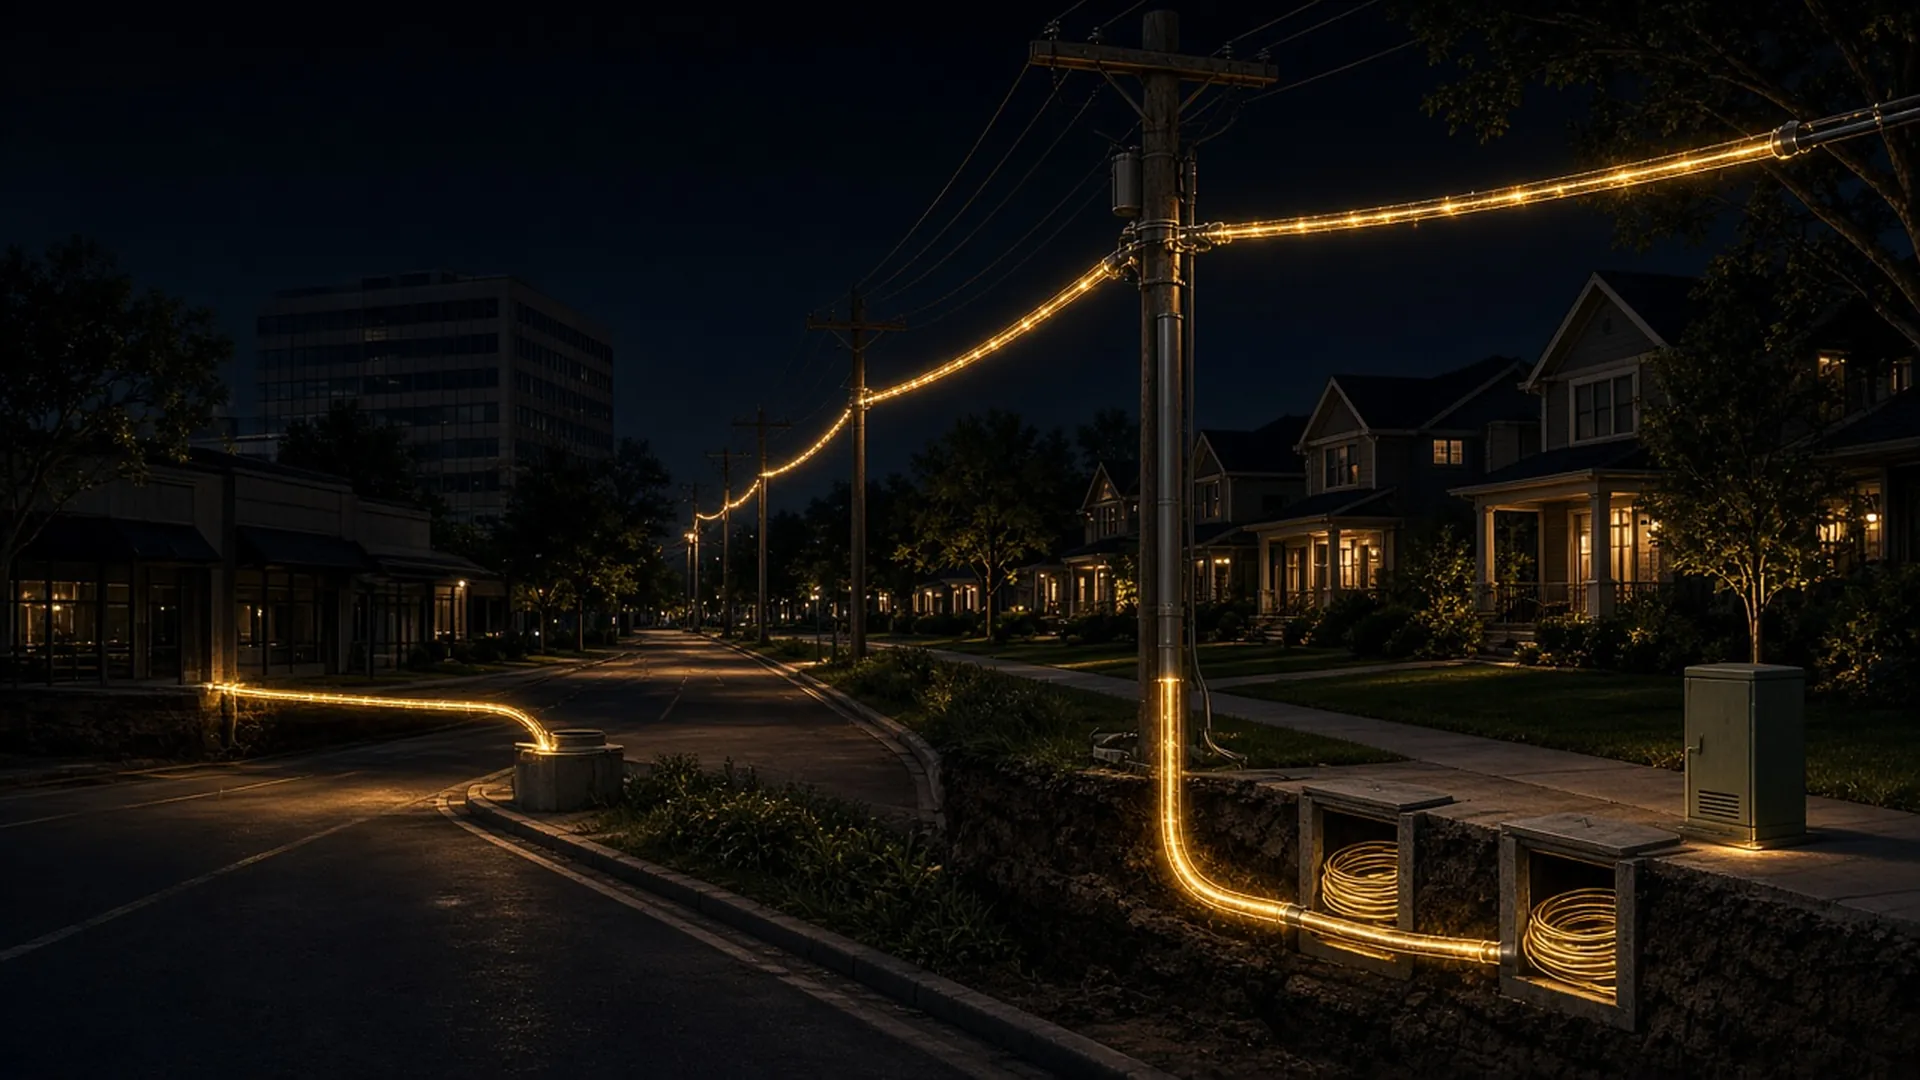
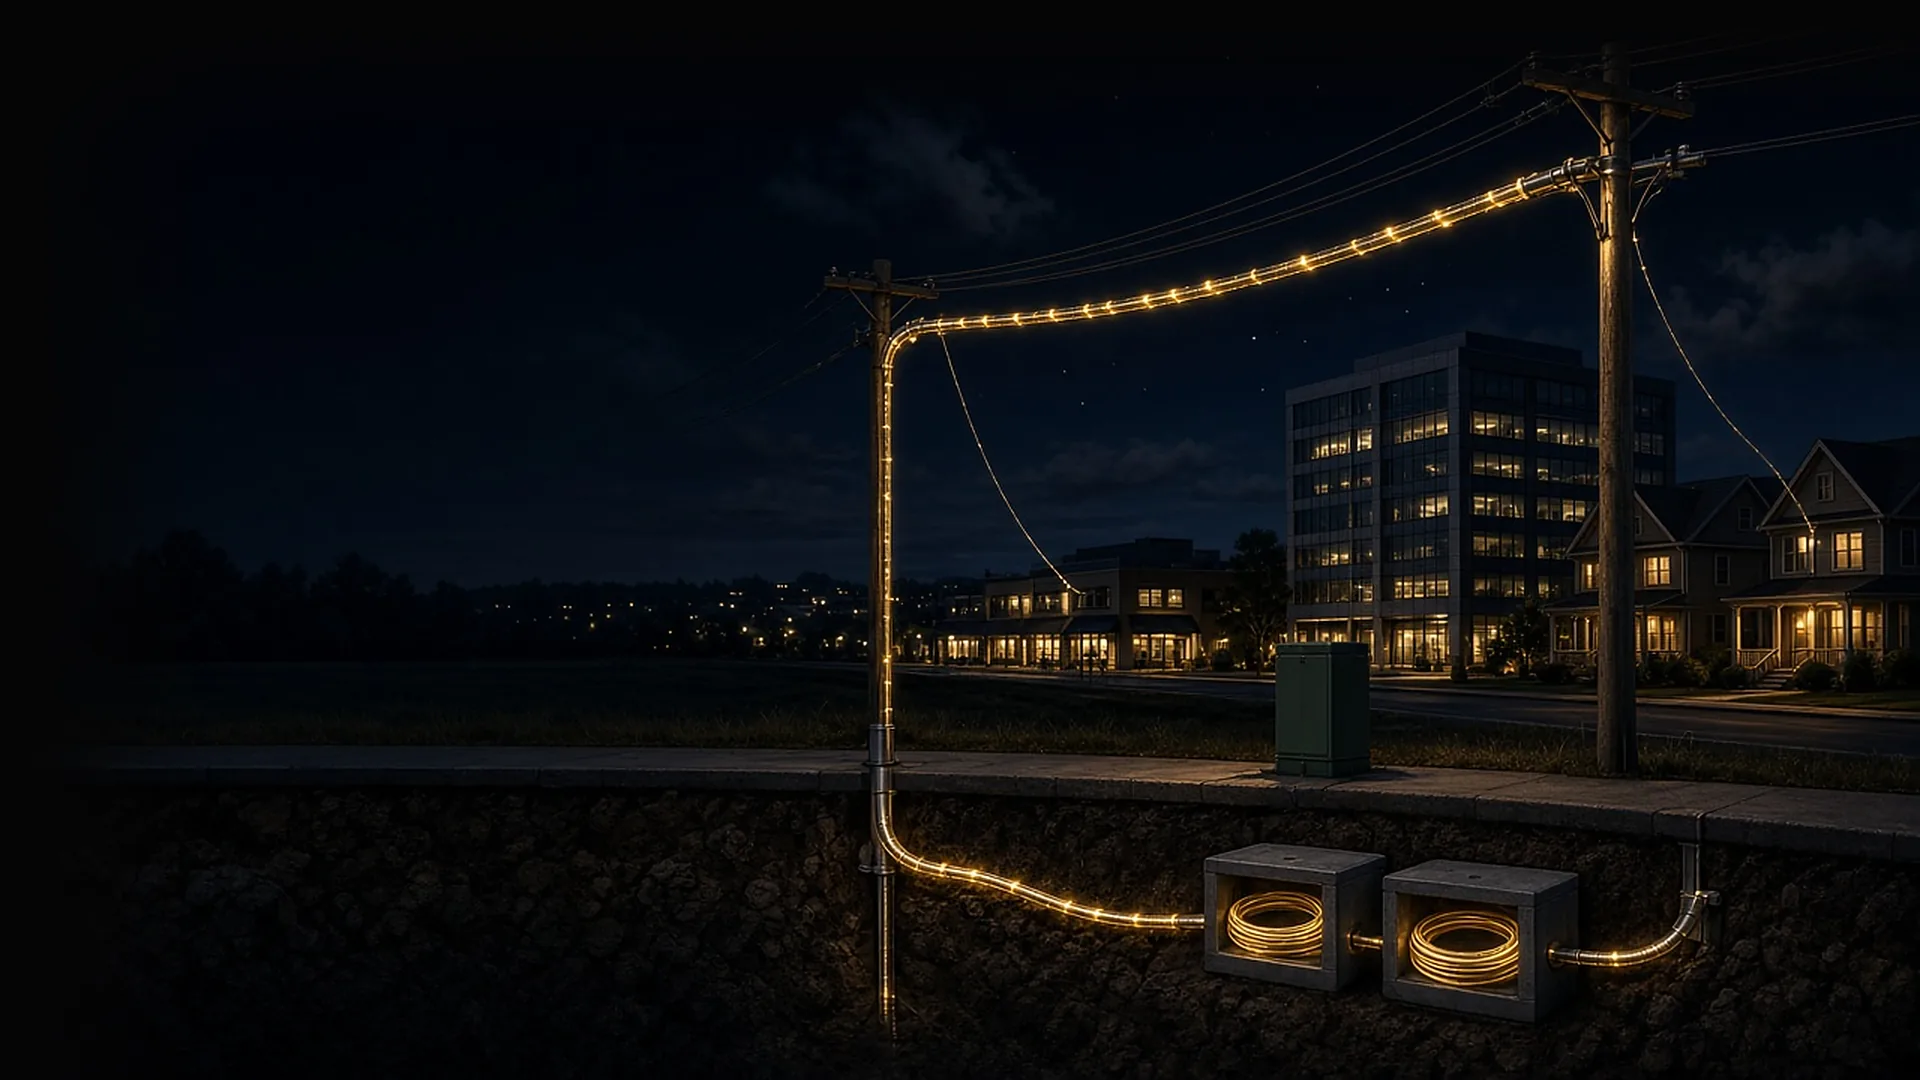
Hero v2: wider OSP scene with businesses and houses right of text, feathered edges, eased scrim, narrower hero text column

diff --git a/index.html b/index.html
@@ -62,9 +62,9 @@ a:hover{color:var(--gold-l)}
 @media (max-width:420px){.brand-name{font-size:1.06rem}.brand-mark{width:32px;height:32px}.btn-sm{padding:.5rem .85rem;font-size:.82rem}}
 
 /* ---------- Hero ---------- */
-.hero{position:relative;min-height:min(100vh,900px);display:flex;align-items:center;color:#fff;background:radial-gradient(900px 520px at 78% 18%,rgba(212,175,55,.10),transparent 60%),url(assets/img/hero-fiber-desktop.webp) 0% 55%/cover no-repeat,#050505;overflow:hidden;isolation:isolate}
-#fiber{position:absolute;inset:0;width:100%;height:100%;z-index:-1;opacity:.3;mix-blend-mode:screen}
-.hero .scrim{position:absolute;inset:0;z-index:-1;pointer-events:none;background:linear-gradient(180deg,rgba(5,5,5,.55) 0%,transparent 18%,transparent 66%,var(--bg1) 98%),linear-gradient(90deg,rgba(5,5,5,.92) 0%,rgba(5,5,5,.88) 38%,rgba(5,5,5,.8) 58%,rgba(5,5,5,.35) 76%,rgba(5,5,5,.08) 100%)}
+.hero{position:relative;min-height:min(100vh,900px);display:flex;align-items:center;color:#fff;background:radial-gradient(900px 520px at 78% 18%,rgba(212,175,55,.10),transparent 60%),url(assets/img/hero-fiber-desktop.webp) 100% 100%/88vw auto no-repeat,#050505;overflow:hidden;isolation:isolate}
+#fiber{position:absolute;inset:0;width:100%;height:100%;z-index:-1;opacity:.2;mix-blend-mode:screen}
+.hero .scrim{position:absolute;inset:0;z-index:-1;pointer-events:none;background:linear-gradient(180deg,rgba(5,5,5,.55) 0%,transparent 18%,transparent 84%,var(--bg1) 100%),linear-gradient(90deg,rgba(5,5,5,.9) 0%,rgba(5,5,5,.82) 34%,rgba(5,5,5,.45) 46%,rgba(5,5,5,.1) 58%,rgba(5,5,5,0) 100%)}
 @media (max-width:700px){.hero{background:url(assets/img/hero-fiber-mobile.webp) center 60%/cover no-repeat,#050505}.hero .scrim{background:linear-gradient(180deg,rgba(5,5,5,.55) 0%,rgba(5,5,5,.7) 30%,rgba(5,5,5,.72) 70%,rgba(5,5,5,.55) 88%,var(--bg1) 100%)}#fiber{opacity:.2}}
 .hero .grid-bg{position:absolute;inset:0;z-index:-2;opacity:.05;background-image:linear-gradient(rgba(212,175,55,.2) 1px,transparent 1px),linear-gradient(90deg,rgba(212,175,55,.2) 1px,transparent 1px);background-size:56px 56px;-webkit-mask-image:radial-gradient(ellipse at 70% 30%,#000 10%,transparent 70%);mask-image:radial-gradient(ellipse at 70% 30%,#000 10%,transparent 70%)}
 .hero .wrap{padding-top:8.5rem;padding-bottom:6rem;width:100%}
@@ -233,6 +233,9 @@ footer{background:#070707;color:var(--muted);padding:3.2rem 0 2.2rem;font-size:.
   *,*::before,*::after{animation:none!important;transition:none!important}
   .js .reveal{opacity:1;transform:none}
 }
+@media (min-width:701px){.hero .lead{max-width:min(56ch,34vw)}.hero h1{max-width:min(15ch,44vw)}.hero .btns{max-width:min(36rem,36vw)}}
+@media (min-width:1600px){.hero{background-size:auto,78vw auto,auto}}
+@media (min-width:701px) and (max-width:1279px){.hero{background-size:auto,104vw auto,auto}.hero .lead{max-width:36vw}.hero .btns{max-width:48vw}}
 </style>
 <script>document.documentElement.classList.add('js')</script>
 </head>
